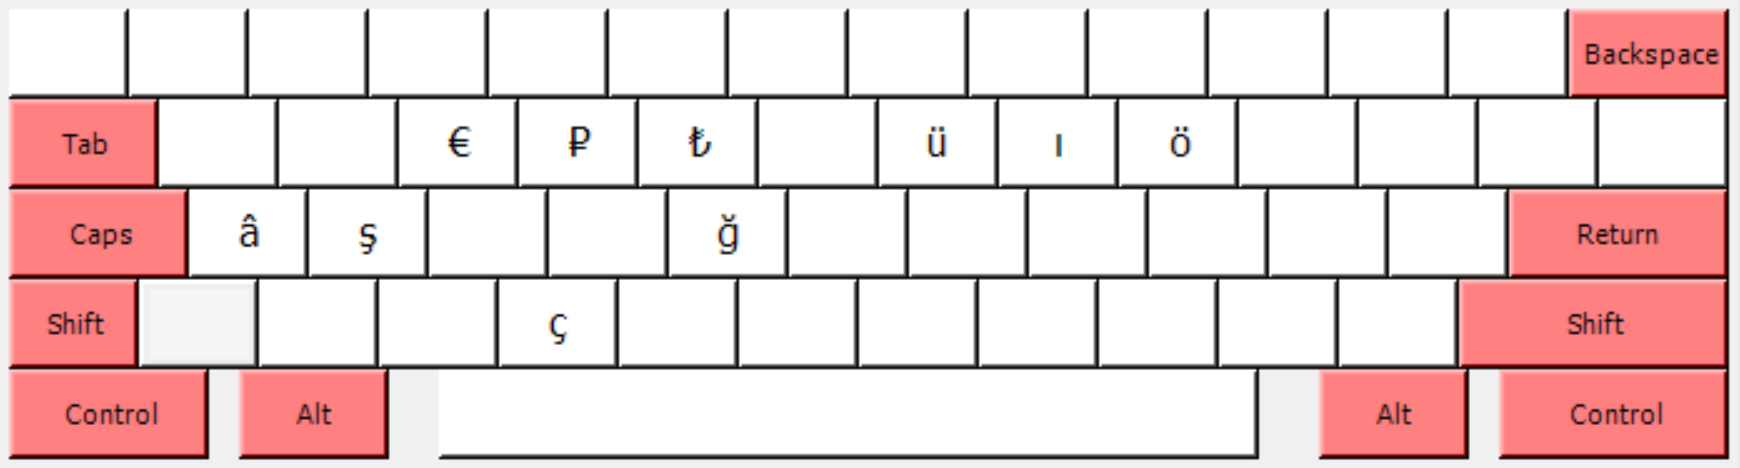
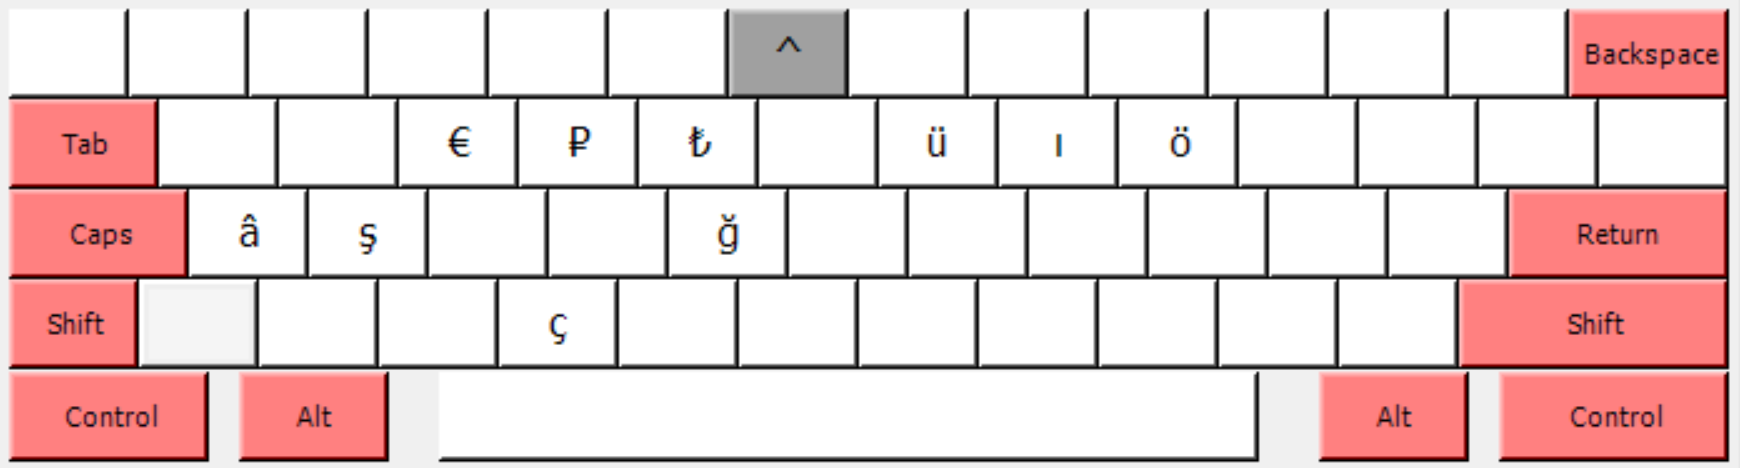
Dead key for circumflex symbol is added.

diff --git a/readme.md b/readme.md
@@ -5,17 +5,22 @@
 Клавиатура соответствует стандартной английской клавиатуре с турецкими буквами доступными на клавишах соответствующих букв без диакритических знаков при одновременном нажатии правой клавиши `Alt` (известной как `AltGr`) или клавиш `Ctrl + Alt`. Идейно данная раскладка повторяет раскладку _Турецкая Q - устаревшая_ из операционной системы MacOS.
 
 Доступны следующие символы:
-| Прописные буквы  | Заглавные буквы          | Символы валют                    |
-|------------------|--------------------------|----------------------------------|
-| `AltGr + u => ü` | `Shift + AltGr + u => Ü` | `AltGr + e => €` (евро)          |
-| `AltGr + i => ı` | `Shift + AltGr + i => İ` | `AltGr + r => ₽` (рубль)         |
-| `AltGr + o => ö` | `Shift + AltGr + o => Ö` | `AltGr + t => ₺` (турецкая лира) |
-| `AltGr + a => â` | `Shift + AltGr + a => Â` |                                  |
-| `AltGr + s => ş` | `Shift + AltGr + s => Ş` |                                  |
-| `AltGr + g => ğ` | `Shift + AltGr + g => Ğ` |                                  |
-| `AltGr + c => ç` | `Shift + AltGr + c => Ç` |                                  |
+| Прописные буквы     | Заглавные буквы             | Символы валют                    |
+|---------------------|-----------------------------|----------------------------------|
+| `AltGr + a => â`    | `Shift + AltGr + a => Â`    | `AltGr + e => €` (евро)          |
+| `AltGr + c => ç`    | `Shift + AltGr + c => Ç`    | `AltGr + r => ₽` (рубль)         |
+| `AltGr + g => ğ`    | `Shift + AltGr + g => Ğ`    | `AltGr + t => ₺` (турецкая лира) |
+| `AltGr + i => ı`    | `Shift + AltGr + i => İ`    |                                  |
+| `AltGr + o => ö`    | `Shift + AltGr + o => Ö`    |                                  |
+| `AltGr + s => ş`    | `Shift + AltGr + s => Ş`    |                                  |
+| `AltGr + u => ü`    | `Shift + AltGr + u => Ü`    |                                  |
+| `AltGr + 6, a => â` | `AltGr + 6, Shift + a => Â` |                                  |
+| `AltGr + 6, i => î` | `AltGr + 6, Shift + i => Î` |                                  |
+| `AltGr + 6, u => û` | `AltGr + 6, Shift + u => Û` |                                  |
 
 Английская прописная буква `i` соответствует турецкой прописной букве `i`, в то время как заглавная буква соответствует турецкой букве `ı`. Соответственно для совместимости с английским языком, клавиша `i` ведёт себя несколько иначе чем остальные клавишы: нажатие `AltGr` убирает точку в нижнем регистре и добавляет её в верхнем.
+
+Циркумфлекс `^` над буквами `â`, `î` и `û` добавляется путём нажатия [мёртвой клавиши][dead key] `AltGr + 6` (на клавише `6` находится знак `^`) и последующим нажатием клавиш `a`, `i` и `u` соответственно. Так как буква `a` в турецком языке не используется с диакритическими знаками отличными от циркумфлекса, то он может может быть добавлен и без использования мёртвой клавиши: нажатием `AltGr + a`.
 
 
 Расположение символов на клавиатуре
@@ -58,3 +63,6 @@
 
 
 © 2022, Гагауз Евгений
+
+
+[dead key]: https://ru.wikipedia.org/wiki/Мёртвые_клавиши
